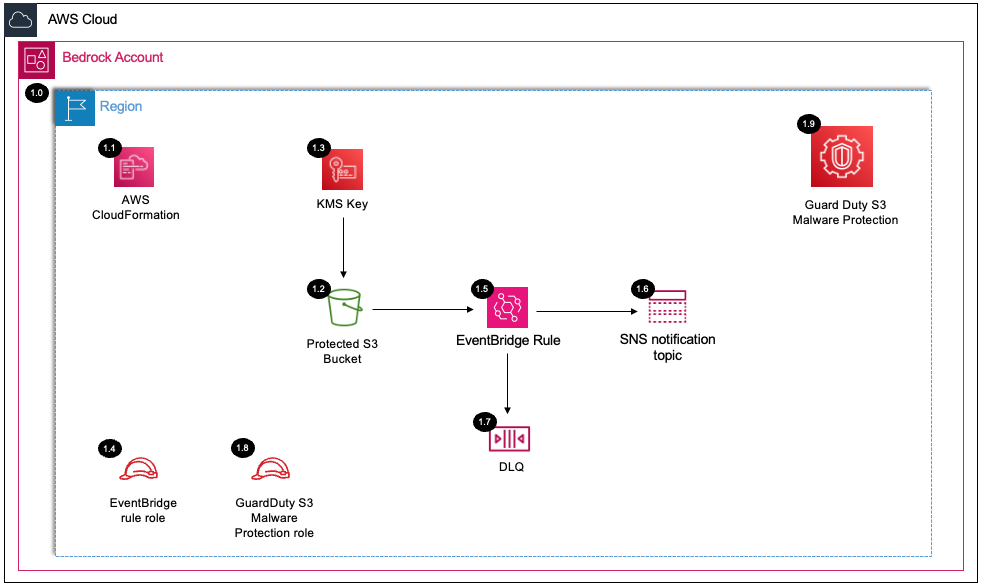
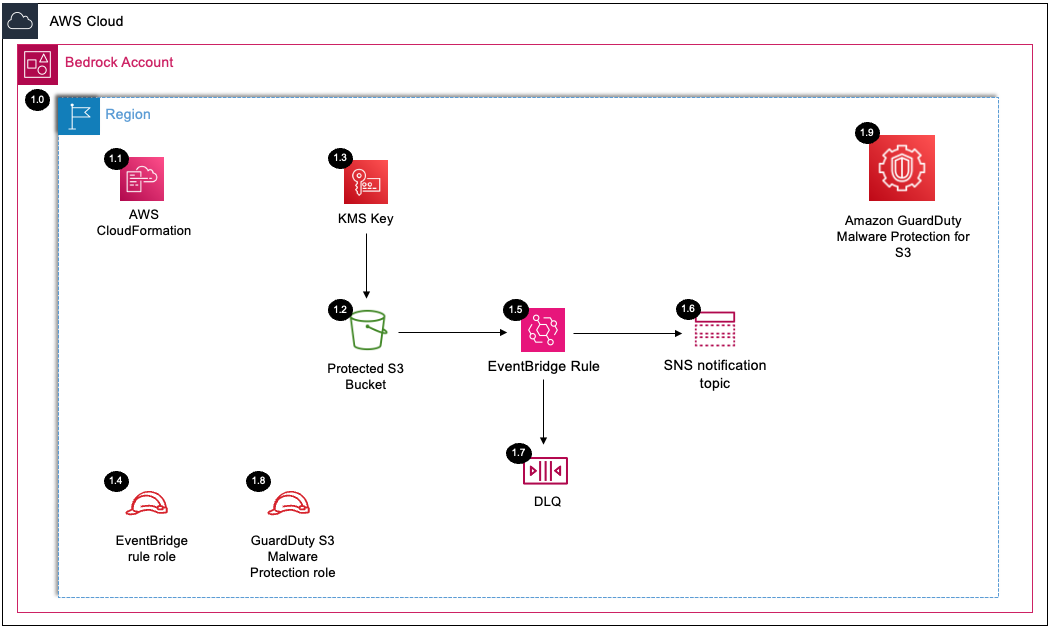
adding tags and rules

diff --git a/aws_sra_examples/solutions/genai/sra_guardduty_malware_protection_for_s3/README.md b/aws_sra_examples/solutions/genai/sra_guardduty_malware_protection_for_s3/README.md
@@ -10,7 +10,7 @@
 
 ## Introduction
 
-This solution deploys Amazon GuardDuty Malware Protection for S3 buckets using AWS CloudFormation. It creates protection plan to enable automated scanning of new objects in S3 buckets for malware and sends notifications of scan results. GuardDuty Malware Protection for S3 can detect malicious content in files before they are processed or used by other systems, enhancing the security of data stored in S3.
+This solution deploys Amazon GuardDuty Malware Protection for S3 using AWS CloudFormation. It creates protection plan to enable automated scanning of new objects in S3 buckets for malware and sends notifications of scan results. GuardDuty Malware Protection for S3 can detect malicious content in files before they are processed or used by other systems, enhancing the security of data stored in S3.
 A key use case for this solution is in the preparation of knowledge bases for Retrieval Augmented Generation (RAG) with Amazon Bedrock. The malware protection capabilities help enhance the security controls for documents and files used in Amazon Bedrock knowledge base construction, contributing to the overall security posture of AI-powered applications.
 
 ### Features
@@ -88,13 +88,18 @@ You can deploy this solution using the AWS Console or AWS CLI.
 ### Deploying via AWS CLI
 1. Run the following command to deploy the stack:
 #### Notes:
-- Update parameter values with your specific settings.
+- Update parameter values with your specific settings. 
+- When deploying with an existing bucket, add the following parameters to your CloudFormation deployment command:
+```bash
+ParameterKey=pExistingBucketName,ParameterValue="bucket-name" \
+ParameterKey=pExistingBucketKmsKey,ParameterValue="kms-key-arn"
+```
 - This example assumes the CloudFormation template file is saved in the templates directory. Adjust the --template-body path if necessary.
 - Ensure the --capabilities CAPABILITY_NAMED_IAM flag is included to allow CloudFormation to create the necessary IAM resources.
 
 ```bash
 aws cloudformation create-stack \
-    --stack-name SraGuardDutyS3MalwareProtection \
+    --stack-name SraGuardDutyMalwareProtectionForS3 \
     --template-body file://aws_sra_examples/solutions/genai/sra_guardduty_malware_protection_for_s3/templates/sra-guardduty-malware-protection-for-s3-main.yaml \
     --region us-east-2 \
     --parameters \
